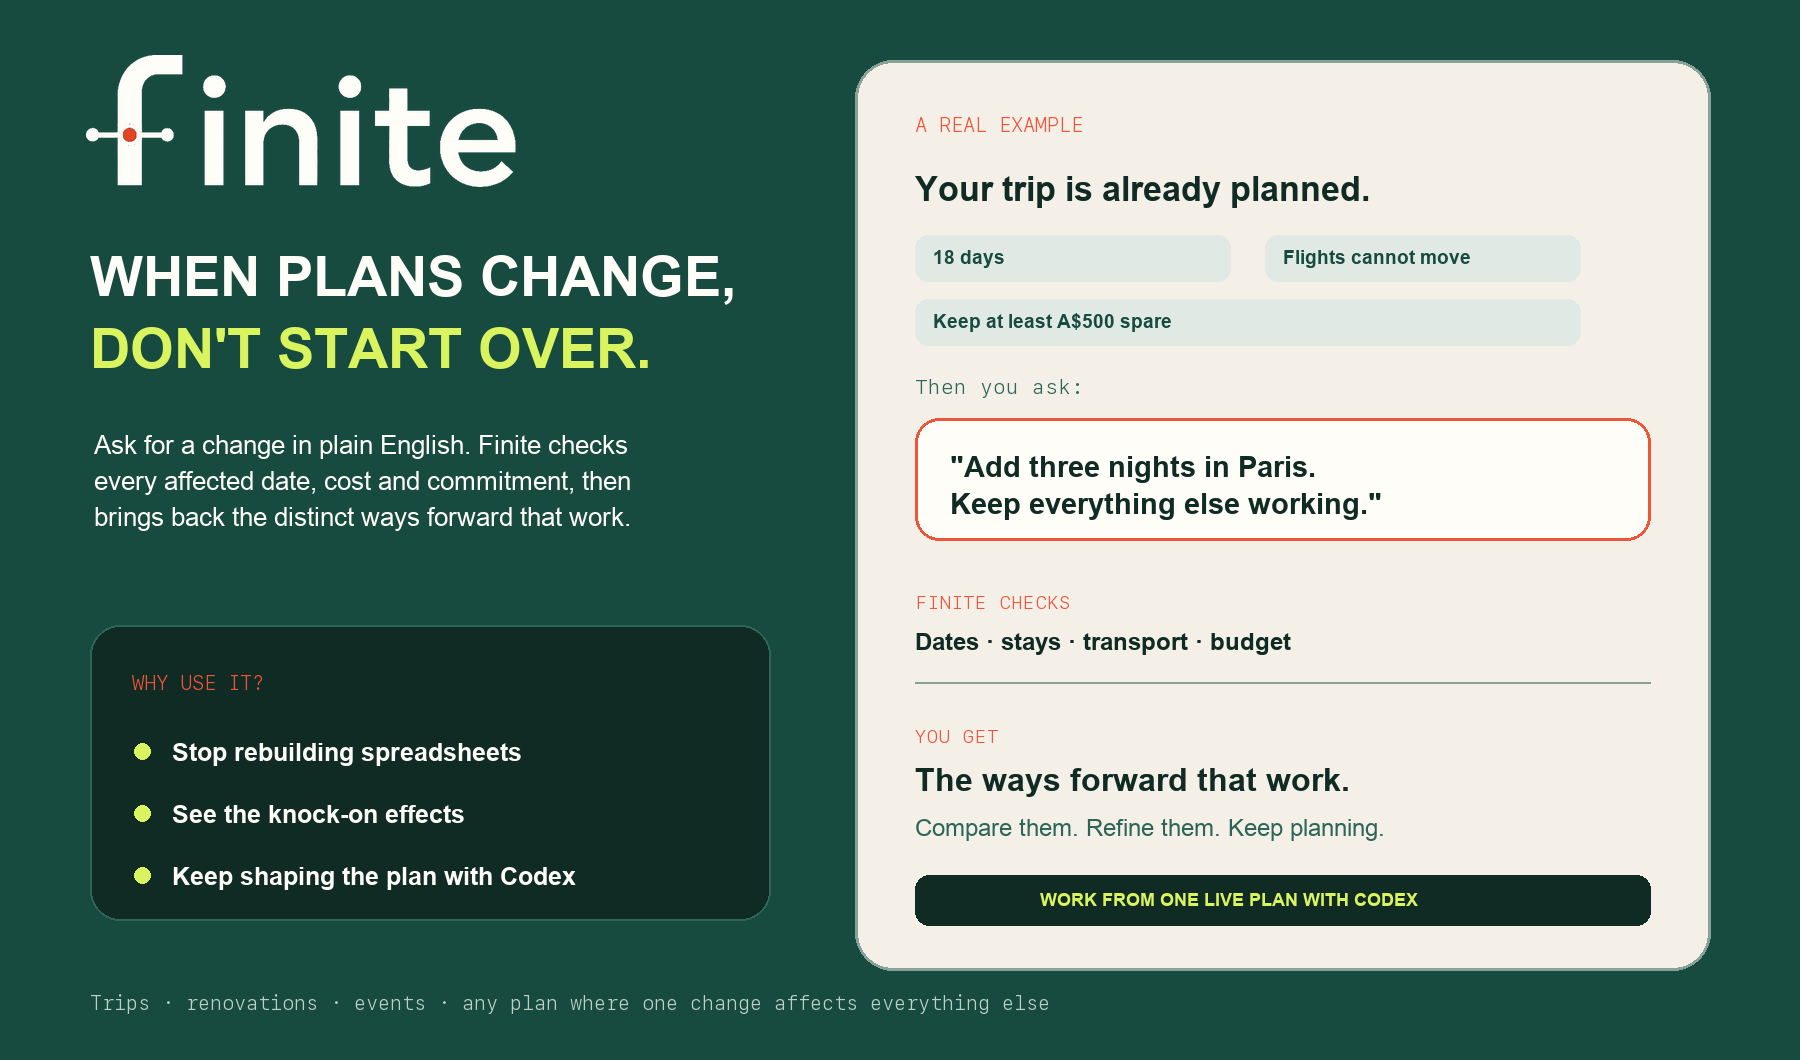
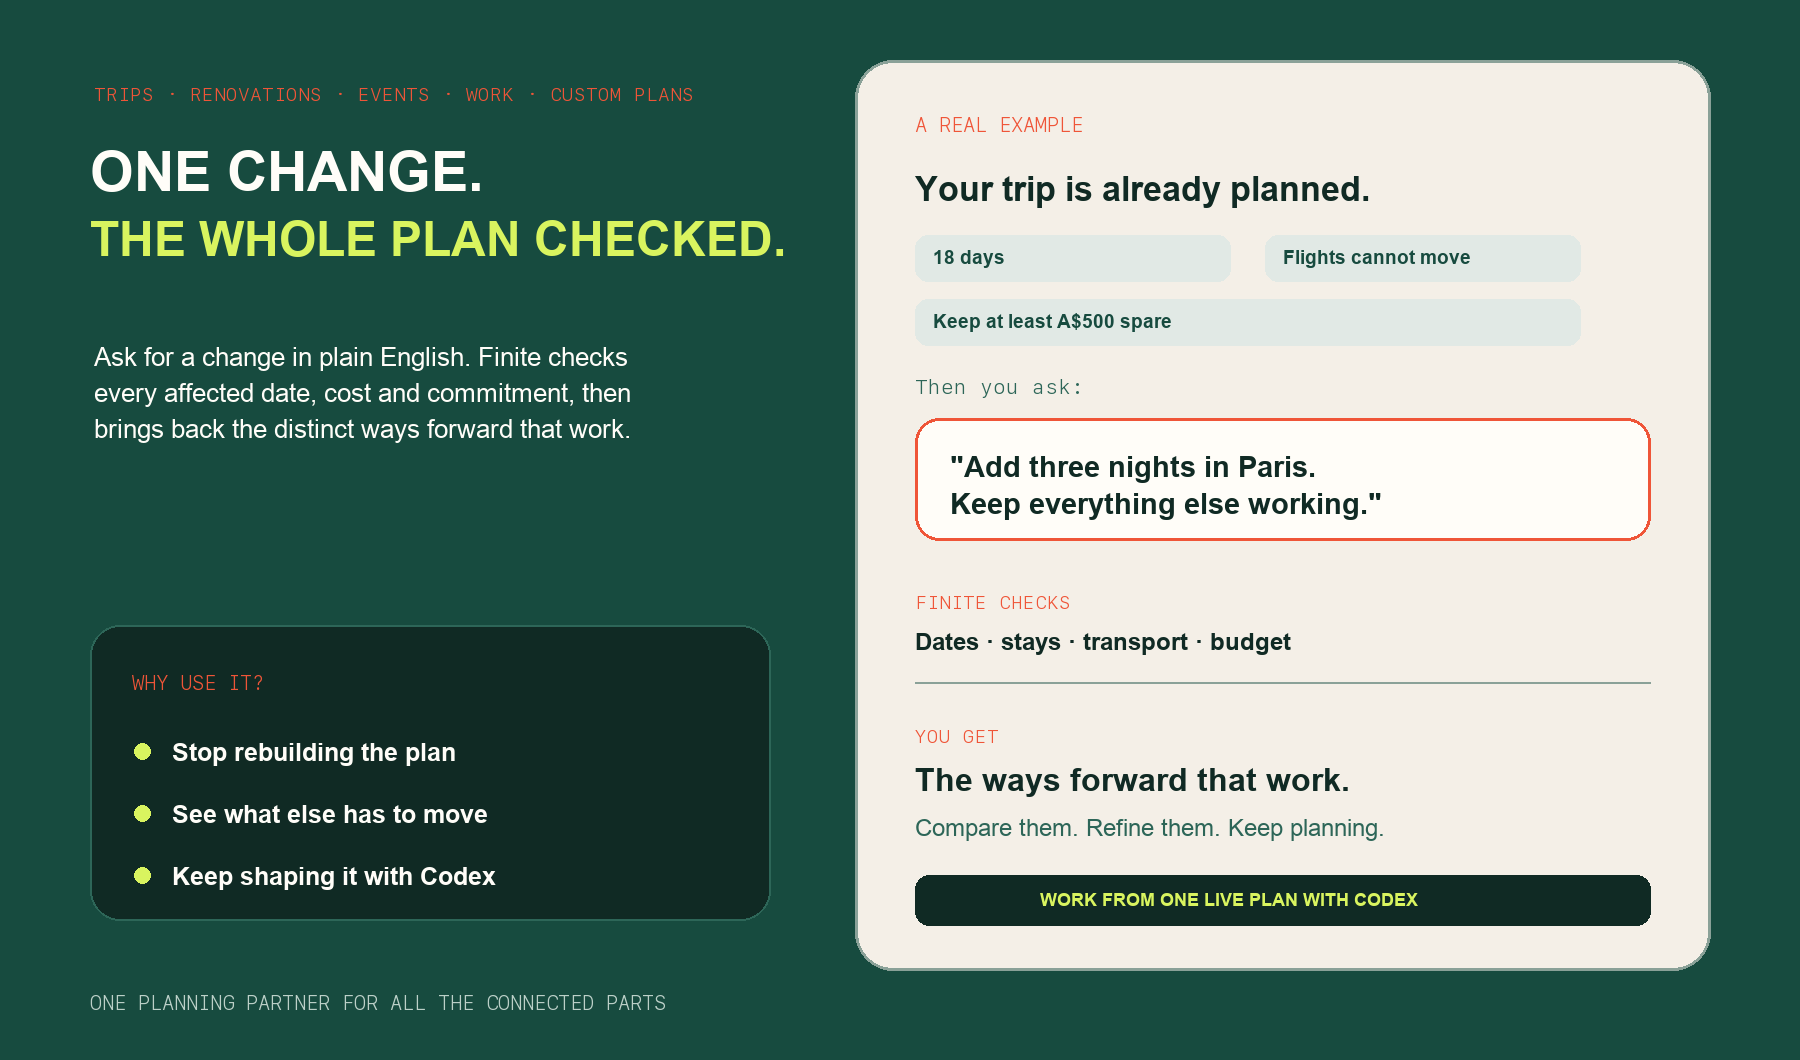
docs: sharpen the user-first GitHub opening

diff --git a/docs/diagrams/render_diagrams.py b/docs/diagrams/render_diagrams.py
@@ -233,14 +233,11 @@ def github_hero() -> None:
     image = Image.new("RGB", (1800, 1060), GREEN)
     draw = ImageDraw.Draw(image)
 
-    mark = Image.open(OUT / "finite-wordmark-dark.png").convert("RGBA")
-    mark.thumbnail((430, 150), Image.Resampling.LANCZOS)
-    image.paste(mark, (86, 55), mark)
-
-    draw.text((90, 245), "WHEN PLANS CHANGE,", font=font(56, bold=True), fill=WHITE)
-    draw.text((90, 317), "DON'T START OVER.", font=font(56, bold=True), fill=MINT)
+    draw.text((94, 82), "TRIPS · RENOVATIONS · EVENTS · WORK · CUSTOM PLANS", font=font(19, mono=True), fill=CORAL)
+    draw.text((90, 140), "ONE CHANGE.", font=font(56, bold=True), fill=WHITE)
+    draw.text((90, 212), "THE WHOLE PLAN CHECKED.", font=font(48, bold=True), fill=MINT)
     draw.multiline_text(
-        (94, 430),
+        (94, 342),
         "Ask for a change in plain English. Finite checks\nevery affected date, cost and commitment, then\nbrings back the distinct ways forward that work.",
         font=font(26), fill=WHITE, spacing=12,
     )
@@ -248,9 +245,9 @@ def github_hero() -> None:
     draw.rounded_rectangle((90, 625, 770, 920), radius=30, fill=INK, outline=GREEN_2, width=2)
     draw.text((132, 670), "WHY USE IT?", font=font(20, mono=True), fill=CORAL)
     benefits = [
-        "Stop rebuilding spreadsheets",
-        "See the knock-on effects",
-        "Keep shaping the plan with Codex",
+        "Stop rebuilding the plan",
+        "See what else has to move",
+        "Keep shaping it with Codex",
     ]
     for index, benefit in enumerate(benefits):
         y = 738 + index * 62
@@ -283,7 +280,7 @@ def github_hero() -> None:
     draw.rounded_rectangle((915, 875, 1650, 925), radius=14, fill=INK)
     draw.text((1040, 889), "WORK FROM ONE LIVE PLAN WITH CODEX", font=font(18, bold=True), fill=MINT)
 
-    draw.text((90, 990), "Trips · renovations · events · any plan where one change affects everything else", font=font(20, mono=True), fill="#bcd0c8")
+    draw.text((90, 990), "ONE PLANNING PARTNER FOR ALL THE CONNECTED PARTS", font=font(20, mono=True), fill="#bcd0c8")
     image.save(OUT / "finite-overview.png", optimize=True)
 
 

diff --git a/README.md b/README.md
@@ -1,22 +1,22 @@
-# Finite
-
-<p align="center">
+<h1 align="center">
   <img src="./public/finite-wordmark.png#gh-light-mode-only" width="260" alt="Finite">
   <img src="./docs/media/finite-wordmark-dark.png#gh-dark-mode-only" width="260" alt="Finite">
-</p>
+</h1>
 
 <p align="center"><strong>Change your plans without rebuilding them.</strong></p>
 
 <p align="center">
-  Finite is for plans with too many connected parts to update one by one. Tell Codex what changed. Codex and Finite work through the knock-on effects across dates, money, bookings, people and commitments, then bring back the distinct ways forward that fit your plan.
+  Finite is a planning partner for trips, renovations, events, work and anything else with connected parts. Tell Codex what changed. Finite works through the affected dates, costs, commitments and dependencies, then brings back the distinct ways forward that still fit.
 </p>
 
 <p align="center">
+  <a href="https://finite.bharthamk.chatgpt.site/?start=spotlight-active&tour=spotlight&plan=1&fresh=1"><strong>Try the two-minute demo</strong></a>
+  &nbsp;·&nbsp;
   <a href="https://finite.bharthamk.chatgpt.site/"><strong>Open Finite</strong></a>
-  &nbsp;·&nbsp;
-  <a href="https://finite.bharthamk.chatgpt.site/?start=spotlight-active&tour=spotlight&plan=1&fresh=1"><strong>Run the two-minute judge Spotlight</strong></a>
-  &nbsp;·&nbsp;
-  <a href="./submission/JUDGE_TESTING_INSTRUCTIONS.md"><strong>Testing guide</strong></a>
+</p>
+
+<p align="center">
+  <sub>Judging Finite? <a href="./submission/JUDGE_TESTING_INSTRUCTIONS.md">Read the testing guide</a>.</sub>
 </p>
 
 <p align="center">
@@ -28,15 +28,15 @@
 
 ![A concrete example of Finite keeping an entire trip working after three extra nights are added in Paris](./docs/media/finite-overview.png)
 
-## One request. Every knock-on effect handled.
+## See one change worked through across the whole plan
 
 Your 18-day trip is planned. The international flights cannot move, and you
 want to keep at least A$500 spare. Then you decide to stay three more nights in
 Paris.
 
 In an ordinary planner, you now have to revisit every date, stay, journey and
-budget line yourself. A general AI can suggest an answer, but it does not own
-the live plan and cannot prove the rest of it still works.
+budget line yourself. A chat assistant can suggest an answer, but you still
+have to transfer it into the plan and check what else broke.
 
 Finite checks the whole trip together. It rules out changes that break the
 flights or the spending floor, then brings back each distinct way forward that
@@ -64,9 +64,9 @@ separate chat or returning advice that you still have to implement yourself.
 
 ## One system, many kinds of plan
 
-Finite is not a travel app. The same planning engine adapts to what you are
-trying to accomplish. A trip needs dates, places and transport. A renovation
-needs phases, dependencies and handover. An event needs a run of show, capacity
+Finite uses the same planning engine across many kinds of work. A trip needs
+dates, places and transport. A renovation needs phases, dependencies and
+handover. An event needs a run of show, capacity
 and commitments. Interview preparation and dinner planning need different
 information again.
 
